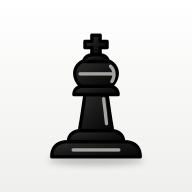
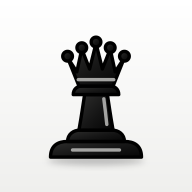
Ajedrez guiado: icono de la dama en lugar del rey
Claude-Session: https://claude.ai/code/session_01VyeEW9oRi3CV54B2uuupfa

diff --git a/ajedrez/index.html b/ajedrez/index.html
@@ -586,8 +586,8 @@ img.app-icon { display: block; object-fit: cover; }
 html{background:linear-gradient(var(--band) 0 50%,var(--bg) 50%)}
 /*STANDALONE:END*/
 </style>
-<link rel="apple-touch-icon" href="apple-touch-icon.png?v=1">
-<link rel="icon" type="image/png" href="icon-192.png?v=1">
+<link rel="apple-touch-icon" href="apple-touch-icon.png?v=2">
+<link rel="icon" type="image/png" href="icon-192.png?v=2">
 <link rel="manifest" href="manifest.webmanifest">
 <script>
 /* iOS, app en la pantalla de inicio: el sistema informa una altura menor que la pantalla
@@ -624,7 +624,7 @@ html{background:linear-gradient(var(--band) 0 50%,var(--bg) 50%)}
   <section id="home" class="screen">
     <div class="home-scroll">
       <header>
-        <div class="rs-top"><img class="app-icon" src="apple-touch-icon.png?v=1" alt=""><div>
+        <div class="rs-top"><img class="app-icon" src="apple-touch-icon.png?v=2" alt=""><div>
         <p class="eyebrow">Ajedrez guiado · 8 × 8</p>
         <h1>Ajedrez</h1></div></div>
         <p class="lede">Una máquina paciente que explica cada jugada que hace y te sugiere las tuyas. Para aprender de a poco.</p>

diff --git a/index.html b/index.html
@@ -650,7 +650,7 @@ html{background:linear-gradient(var(--band) 0 50%,var(--bg) 50%)}
       <a class="duo-btn more-btn" href="ajedrez/">
         <span class="lv-name">Ajedrez guiado</span>
         <span class="lv-desc">Partida completa contra una máquina fácil que explica cada jugada y te sugiere las tuyas.</span>
-        <span class="lv-icons"><img class="more-ic" src="ajedrez/apple-touch-icon.png?v=1" alt=""></span>
+        <span class="lv-icons"><img class="more-ic" src="ajedrez/apple-touch-icon.png?v=2" alt=""></span>
       </a>
 
       <div class="home-foot">

diff --git a/sw.js b/sw.js
@@ -1,6 +1,6 @@
 // Permite jugar sin conexión: guarda el juego, los íconos y las fuentes.
 // Con conexión siempre se usa la versión más reciente del juego.
-const CACHE = 'royal-study-v7-ajedrez';
+const CACHE = 'royal-study-v7-ajedrez-b2';
 const CORE = ['./', './index.html', './manifest.webmanifest', './apple-touch-icon.png', './icon-192.png', './icon-512.png'];
 
 self.addEventListener('install', (e) => {

diff --git a/ajedrez/sw.js b/ajedrez/sw.js
@@ -1,6 +1,6 @@
 // Permite jugar sin conexión: guarda el juego y sus íconos.
 // Con conexión siempre se usa la versión más reciente del juego.
-const CACHE = 'ajedrez-v1-b1';
+const CACHE = 'ajedrez-v1-b2';
 const CORE = ['./', './index.html', './manifest.webmanifest', './apple-touch-icon.png', './icon-192.png', './icon-512.png'];
 
 self.addEventListener('install', (e) => {

diff --git a/README.md b/README.md
@@ -58,6 +58,6 @@ Partida completa de ajedrez contra una máquina de nivel bajo, pensada para apre
 - `index.html`: el juego completo (reglas, generador de estudios y cálculo del mínimo de jugadas).
 - `manifest.webmanifest`, `apple-touch-icon.png`, `icon-192.png`, `icon-512.png`: datos e iconos para instalarlo como app.
 - `sw.js`: guarda una copia para jugar sin conexión.
-- `ajedrez/`: Ajedrez guiado. `index.html` trae el motor (`/*MOTOR:START*/`), el profesor y la máquina (`/*PROFESOR:START*/`) y la interfaz; tiene su propio `sw.js`, manifiesto e iconos (rey negro sobre fondo blanco).
+- `ajedrez/`: Ajedrez guiado. `index.html` trae el motor (`/*MOTOR:START*/`), el profesor y la máquina (`/*PROFESOR:START*/`) y la interfaz; tiene su propio `sw.js`, manifiesto e iconos (dama negra sobre fondo blanco).
 
 Proyecto personal sin afiliación con la marca *The Royal Study*.
